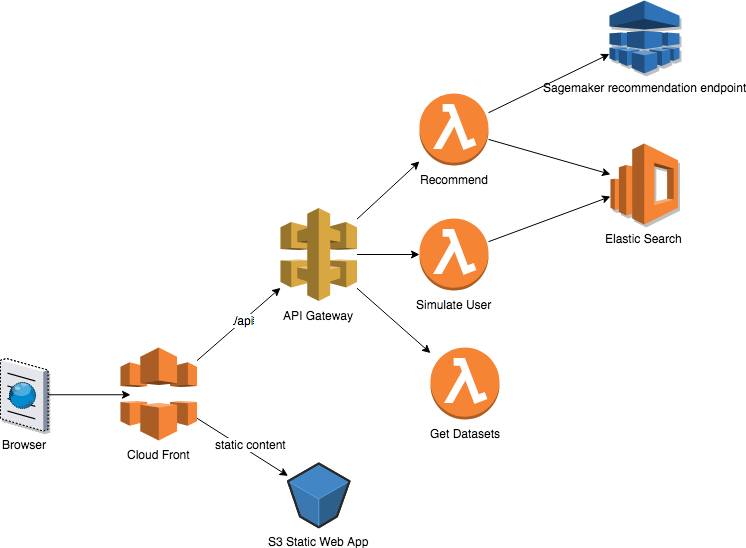
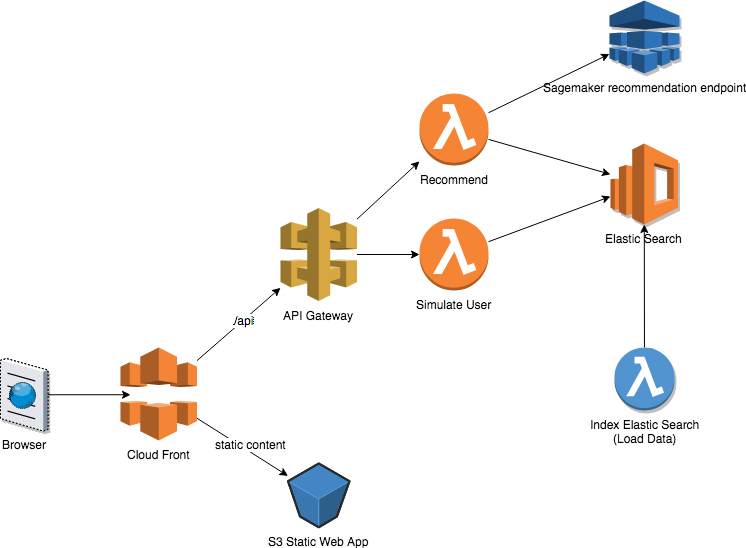
Update doc

Changed region(s): [[0.8016, 0.6204, 0.9249, 0.8066], [0.555, 0.6204, 0.6783, 0.8066]]

diff --git a/README.md b/README.md
@@ -17,18 +17,18 @@ DOI=http://dx.doi.org/10.1145/2827872
 
 
 ## 100K Movie Dataset
-1. Download movies
+1. Download movies & upload to s3 with the right metadata. This metadata is later used to index elastic search
 ```shell
 wget http://files.grouplens.org/datasets/movielens/ml-100k/u.item
 aws s3 cp u.item s3://<yourbucketData>/movies.csv --metadata dataset_id=100KDS,type=movies
 ```
-2. Download users
+2. Download users & upload to s3 with the right metadata. This metadata is later used to index elastic search
 ```shell
 wget http://files.grouplens.org/datasets/movielens/ml-100k/u.user
 aws s3 cp u.user s3://<yourbucketData>/users.csv --metadata dataset_id=100KDS,type=users
 ```
 
-3. Download ratings
+3. Download ratings & upload to s3 with the right metadata. This metadata is later used to index elastic search
 ```shell
 wget http://files.grouplens.org/datasets/movielens/ml-100k/u.data
 aws s3 cp u.data s3://<yourbucketData>/ratings.csv --metadata dataset_id=100KDS,type=ratings
@@ -57,9 +57,9 @@ aws cloudformation create-stack  --stack-name RecommeddationDemo --template-url 
 
 
 # 5. Load Elastic seach movies data
-1. Make sure you that you have metadata "dataset_id" & type ( movies, users, ratings) set on the key you want to index to either 100KDS, 20MDS to represent the 2 different data set when you uploaded the file
+1. Make sure you that you have metadata "dataset_id" (100KDS) & "type" ( movies, users, ratings) when you uploaded the datasets into s3 bucket.  Run the indexElasticSearch function using the following sample test events to load the dataset into Elastic Search
 
-2. Load movies into elastic search
+  1. Sample Lambda Test Data - Load movies into elastic search
 ```json
 {
   "Records": [
@@ -81,7 +81,7 @@ aws cloudformation create-stack  --stack-name RecommeddationDemo --template-url 
 }
 ```
 
-3. Load users into elastic search
+  2. Sample Lambda Test Data - Load users into elastic search
 ```json
 {
   "Records": [
@@ -103,7 +103,7 @@ aws cloudformation create-stack  --stack-name RecommeddationDemo --template-url 
 }
 ```
 
-4. Load user ratings into elastic search
+  3. Sample Lambda Test Data -Load user ratings into elastic search
 ```json
 {
   "Records": [
